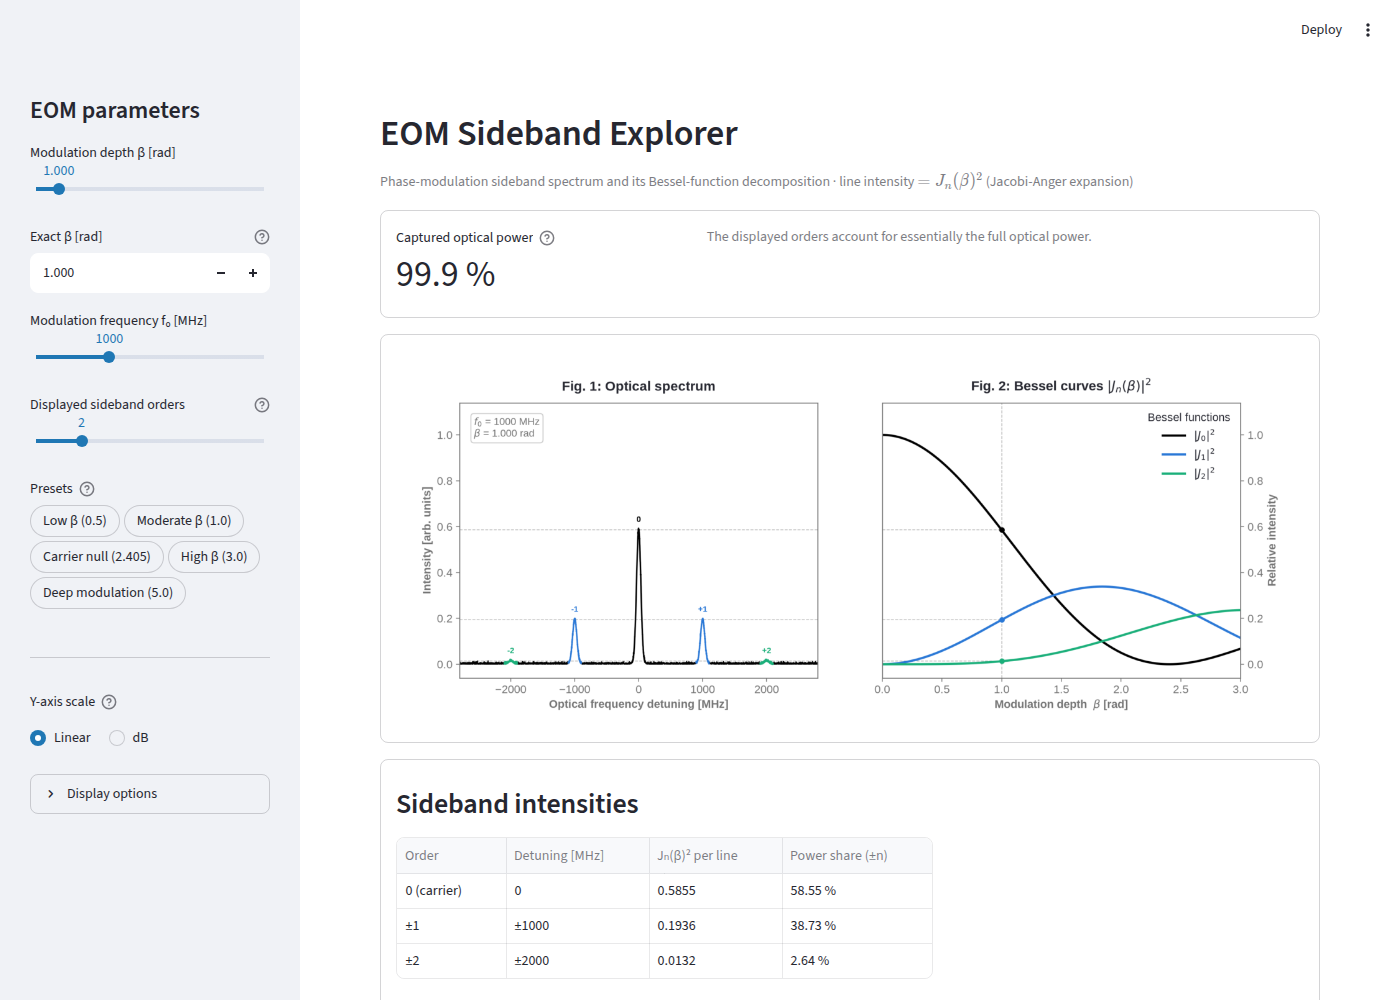
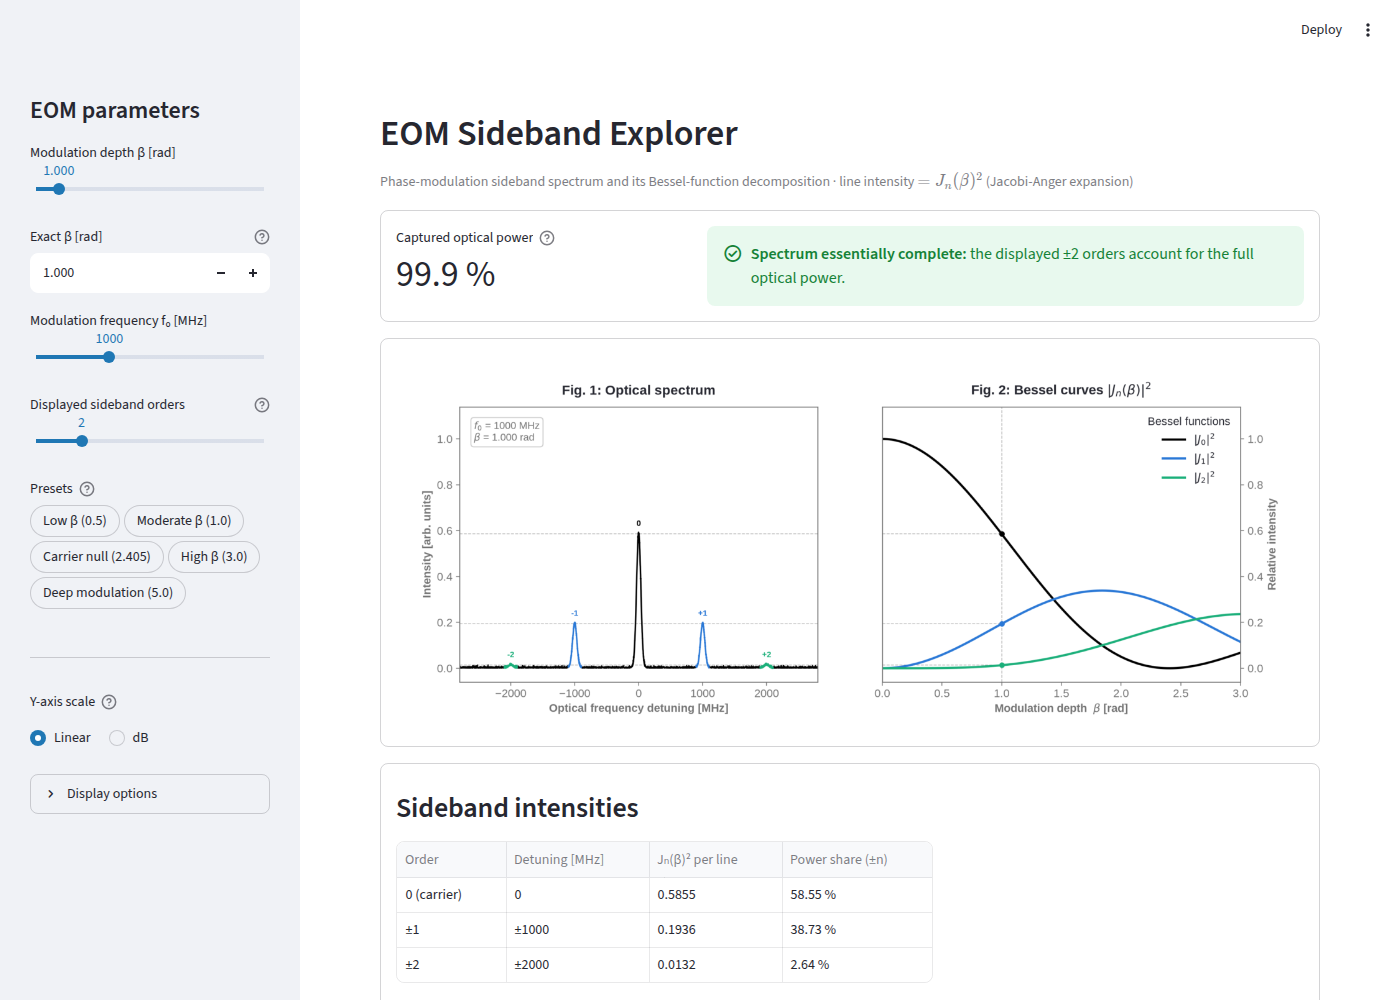
Make the captured-power messages readable and their advice actionable
The two states of the captured-power readout were visually lopsided: the
truncation case got a full warning callout while the healthy case was a bare
grey caption that read as an afterthought. Both are now alert boxes with
matching icons — green check for a complete spectrum, warning triangle for a
truncated one — and each names the ±N orders it is talking about.

The truncation advice also used to say "increase the number of displayed
sidebands" unconditionally, including at the maximum of ±6 where there is
nothing left to increase. Sideband power reaches out to about |n| ~ beta, so
physics.orders_for_power() now reports how many orders the current beta
actually needs: below the cap the message names that number, above it the
message says the spectrum runs past what the display covers and points at beta
instead.

Refresh the README screenshot and feature list to match.

Claude-Session: https://claude.ai/code/session_01MChhPcFWqBUDZP51911ZuT

diff --git a/app.py b/app.py
@@ -20,9 +20,14 @@ import matplotlib.pyplot as plt
 import streamlit as st
 
 from physics import (color_for_n, sideband_intensities, intensity_vs_beta,
-                     captured_power, to_decibels, DB_FLOOR)
+                     captured_power, orders_for_power, to_decibels, DB_FLOOR)
 
 NMAX = 6        # max selectable sideband orders to display
+
+# Share of the optical power the displayed orders must hold for the spectrum to
+# count as essentially complete. Below it the truncation notice takes over, and
+# it is also the target used when working out how many orders would be needed.
+POWER_COMPLETE = 0.98
 
 # Shared y-limits for both figures. The two panels show the same intensities
 # (|J_n(beta)|^2), so their axes must span the same range for the dashed
@@ -343,8 +348,35 @@ def render_sidebar():
     return beta, f0, N, width_frac, noise, color_peaks, fixed_xaxis, db_scale
 
 
-def render_metrics(Jn2):
-    """Show the captured-power metric and a spectral-truncation warning if needed."""
+def truncation_advice(beta):
+    """Return the actionable half of the spectral-truncation message.
+
+    Telling the user to display more orders is only useful while more orders
+    are available. Sideband power reaches out to about ``|n| ~ beta``, so past
+    roughly ``beta = NMAX`` no allowed setting can capture the full spectrum
+    and the honest advice is to lower beta instead.
+
+    Parameters
+    ----------
+    beta : float
+        Modulation depth in radians.
+
+    Returns
+    -------
+    str
+        A sentence naming the order count the spectrum needs at this beta and
+        the control that gets there.
+    """
+    needed = orders_for_power(beta, POWER_COMPLETE)
+    if needed <= NMAX:
+        return (f"Raise *Displayed sideband orders* to {needed} to account for "
+                f"the full spectrum.")
+    return (f"The spectrum reaches ±{needed} orders at this β — beyond the ±{NMAX} "
+            f"this display covers, so lower β to bring all of it into view.")
+
+
+def render_metrics(Jn2, beta, N):
+    """Show the captured-power metric and how complete the displayed spectrum is."""
     with st.container(border=True):
         col_left, col_right = st.columns([1, 2])
         with col_left:
@@ -353,13 +385,15 @@ def render_metrics(Jn2):
                       help="Fraction of the total optical power contained in the "
                            "displayed sideband orders.")
         with col_right:
-            if cap < 0.98:
+            if cap < POWER_COMPLETE:
                 st.warning(f"**Spectral truncation:** {(1-cap)*100:.0f}% of the optical "
-                           f"power falls outside the displayed orders. Increase the number "
-                           f"of displayed sidebands to account for the full spectrum.")
+                           f"power falls outside the displayed ±{N} orders. "
+                           + truncation_advice(beta),
+                           icon=":material/warning:")
             else:
-                st.caption("The displayed orders account for essentially the full "
-                           "optical power.")
+                st.success(f"**Spectrum essentially complete:** the displayed ±{N} "
+                           f"orders account for the full optical power.",
+                           icon=":material/check_circle:")
 
 
 def render_intensity_table(Jn2, f0, N):
@@ -502,7 +536,7 @@ def main():
     st.caption("Phase-modulation sideband spectrum and its Bessel-function "
                "decomposition · line intensity $= J_n(\\beta)^2$ (Jacobi-Anger expansion)")
 
-    render_metrics(Jn2)
+    render_metrics(Jn2, beta, N)
 
     with st.container(border=True):
         st.pyplot(fig, use_container_width=True, bbox_inches=None)

diff --git a/test_app.py b/test_app.py
@@ -6,6 +6,9 @@ the dashed guide line drawn at a peak in Fig. 1 lands exactly on that order's
 marker in Fig. 2. The linear/dB toggle is the thing most able to break it, so
 it is exercised on both settings.
 
+The spectral-truncation advice is checked here too, since it must never point
+at a setting the sidebar cannot reach.
+
 Rendering uses the non-interactive Agg backend, so the suite still needs no
 display or browser.
 """
@@ -17,9 +20,9 @@ import matplotlib.pyplot as plt          # noqa: E402
 import numpy as np                       # noqa: E402
 import pytest                            # noqa: E402
 
-from app import (PRESETS, YLIM, YLIM_DB, apply_plot_style,  # noqa: E402
-                 build_figure, theme_ink)
-from physics import sideband_intensities  # noqa: E402
+from app import (NMAX, POWER_COMPLETE, PRESETS, YLIM, YLIM_DB,  # noqa: E402
+                 apply_plot_style, build_figure, theme_ink, truncation_advice)
+from physics import orders_for_power, sideband_intensities  # noqa: E402
 
 # Every preset operating point, on both y-scales.
 CASES = [(beta, N, db) for beta, N in PRESETS.values() for db in (False, True)]
@@ -76,3 +79,17 @@ def test_nothing_drawn_is_infinite(beta, N, db_scale):
         for line in ax.get_lines():
             assert np.all(np.isfinite(np.atleast_1d(line.get_ydata())))
     plt.close(fig)
+
+
+def test_truncation_advice_only_asks_for_orders_the_slider_offers():
+    """Advising more orders is only honest while the slider can still deliver them.
+
+    Past that point the deep-modulation wording must take over, so the message
+    never sends the user after a setting that does not exist. The sweep covers
+    the whole beta slider at its own step size.
+    """
+    for beta in np.arange(0.005, 10.001, 0.005):
+        needed = orders_for_power(beta, POWER_COMPLETE)
+        advice = truncation_advice(beta)
+        assert advice.startswith("Raise") == (needed <= NMAX), f"β = {beta}"
+        assert str(needed) in advice

diff --git a/physics.py b/physics.py
@@ -149,6 +149,43 @@ def captured_power(Jn2):
     return float(Jn2[0] + 2 * Jn2[1:].sum())
 
 
+def orders_for_power(beta, threshold, search_limit=64):
+    """Return the lowest order ``N`` whose lines hold ``threshold`` of the power.
+
+    Answers the question the captured-power readout raises: how many orders
+    would have to be displayed for the spectrum to be essentially complete?
+    Orders are added in pairs (``+n`` and ``-n``) until the running total of
+    :func:`captured_power` reaches ``threshold``.
+
+    Sideband power spreads out roughly as far as ``|n| ~ beta``, so the answer
+    grows with the modulation depth and can exceed what a caller is willing (or
+    able) to display -- which is exactly what makes it worth reporting.
+
+    Parameters
+    ----------
+    beta : float
+        Modulation depth in radians.
+    threshold : float
+        Fraction of the total optical power to reach, in ``[0, 1]``.
+    search_limit : int, optional
+        Highest order considered. The returned value is capped at this order,
+        which the default of 64 puts far beyond the ``beta <= 10`` the app
+        allows.
+
+    Returns
+    -------
+    int
+        Smallest ``N`` with ``captured_power(sideband_intensities(beta, N))
+        >= threshold``, or ``search_limit`` if the threshold is out of reach.
+    """
+    Jn2 = sideband_intensities(beta, search_limit)
+    # Running captured_power over N = 0, 1, ...: the carrier once, then both
+    # copies of every higher order.
+    cumulative = np.cumsum(np.concatenate(([Jn2[0]], 2.0 * Jn2[1:])))
+    reached = np.flatnonzero(cumulative >= threshold)
+    return int(reached[0]) if reached.size else search_limit
+
+
 def to_decibels(intensity, floor_db=DB_FLOOR):
     """Convert a linear intensity (power ratio) to decibels.
 

diff --git a/test_physics.py b/test_physics.py
@@ -10,7 +10,7 @@ import pytest
 from scipy.special import jv
 
 from physics import (DB_FLOOR, captured_power, color_for_n, intensity_vs_beta,
-                     sideband_intensities, to_decibels)
+                     orders_for_power, sideband_intensities, to_decibels)
 
 
 def test_energy_conservation():
@@ -78,6 +78,27 @@ def test_intensity_vs_beta_carrier_starts_at_full_power():
     assert intensity_vs_beta(0, 0.0) == pytest.approx(1.0)
     for n in range(1, 5):
         assert intensity_vs_beta(n, 0.0) == pytest.approx(0.0)
+
+
+def test_orders_for_power_is_the_first_order_reaching_the_threshold():
+    """The returned order clears the threshold and the one below it does not."""
+    for beta in [0.5, 1.0, 2.405, 5.0, 7.82, 10.0]:
+        n = orders_for_power(beta, 0.98)
+        assert captured_power(sideband_intensities(beta, n)) >= 0.98
+        assert captured_power(sideband_intensities(beta, n - 1)) < 0.98
+
+
+def test_orders_for_power_grows_with_modulation_depth():
+    """Deeper modulation spreads power outwards, so more orders are needed."""
+    counts = [orders_for_power(beta, 0.98) for beta in np.arange(0.0, 10.1, 0.5)]
+    assert counts[0] == 0                       # unmodulated: the carrier alone
+    assert np.all(np.diff(counts) >= 0)
+    assert counts[-1] > counts[0]
+
+
+def test_orders_for_power_caps_at_the_search_limit():
+    """An unreachable threshold returns the cap instead of searching forever."""
+    assert orders_for_power(3.0, threshold=1.5, search_limit=8) == 8
 
 
 def test_to_decibels_reference_values():

diff --git a/README.md b/README.md
@@ -24,8 +24,10 @@ the optical spectrum and the underlying Bessel functions update side by side.
 - **Linear / dB y-axis toggle** that switches both figures together, keeping
   their guide lines aligned, so the weaker sideband orders are placed at their
   true height instead of collapsing onto zero.
-- **Captured-power readout** with a spectral-truncation warning when the
-  displayed orders miss a noticeable fraction of the optical power.
+- **Captured-power readout** that confirms when the displayed orders hold
+  essentially the whole spectrum, and otherwise warns how much power falls
+  outside them — naming the order count the current *β* would actually need,
+  or saying so when that is more than the display can show.
 - **Exact intensity table** of *Jₙ(β)²* per line and the combined ±*n* power
   share for each order.
 - **Colourblind-safe, theme-aware figures** that follow Streamlit's light/dark
